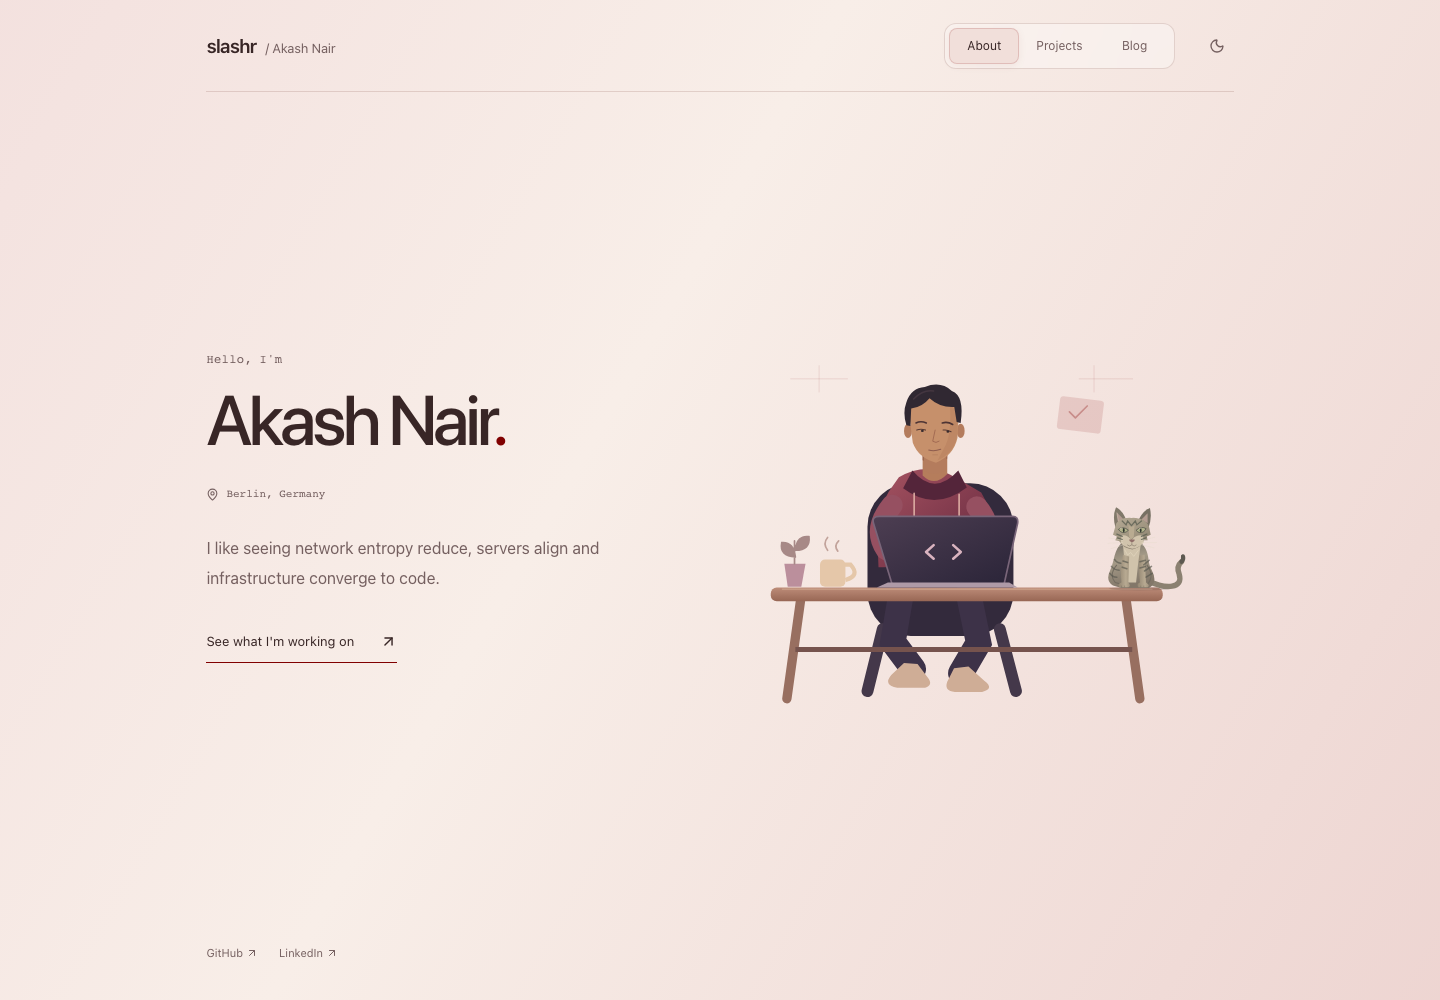
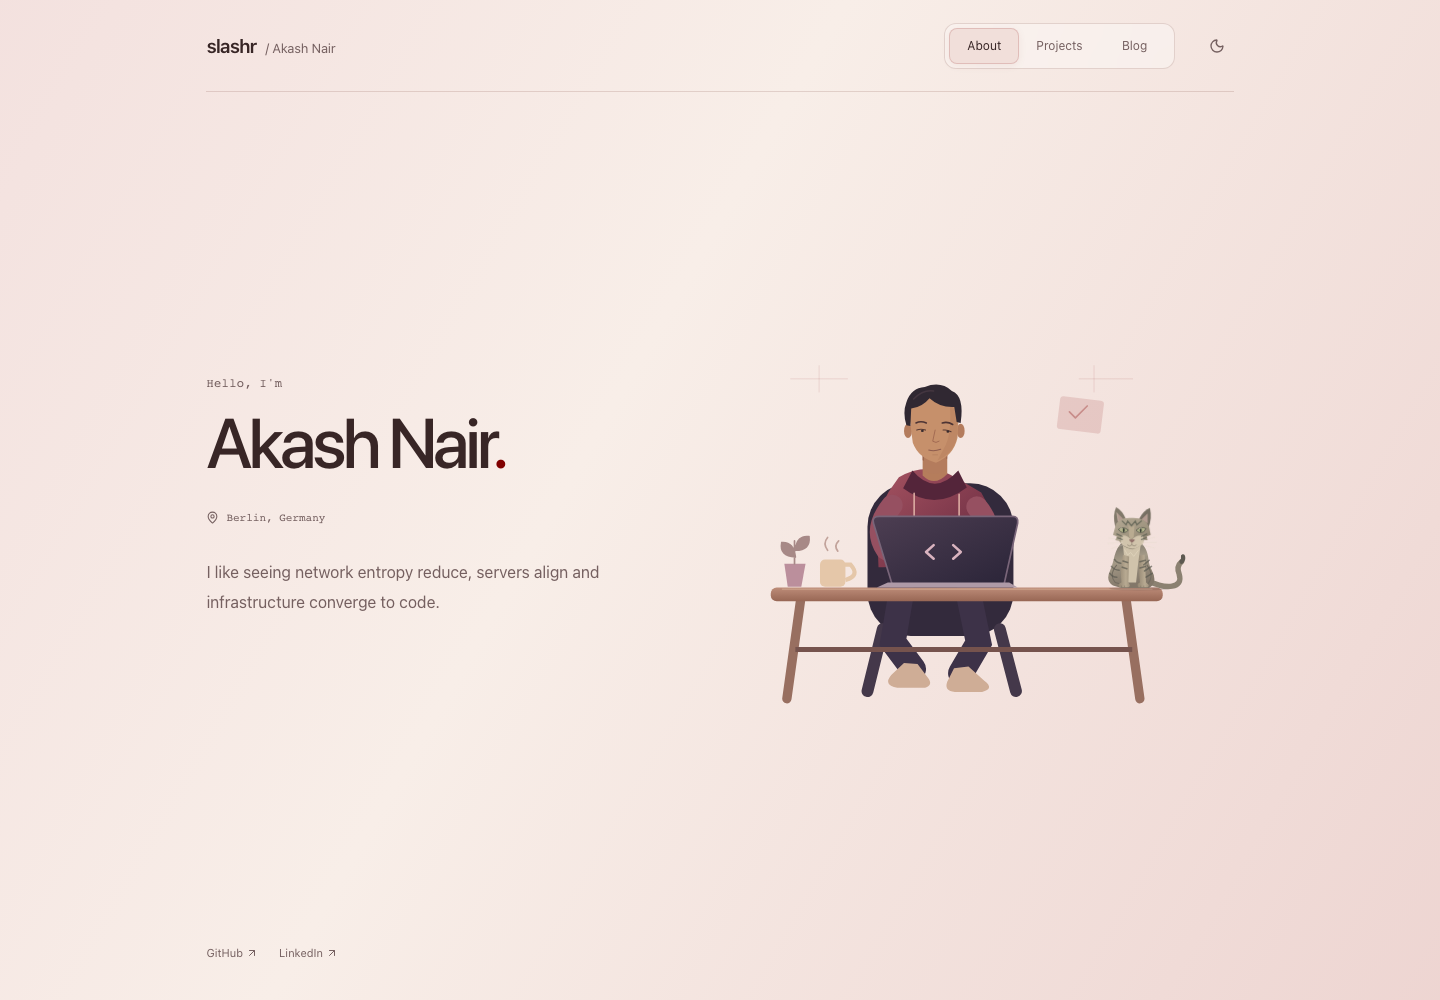
Remove the Projects link from the About page

Changed region(s): [[0.125, 0.372, 0.4062, 0.651]]

diff --git a/app/page.tsx b/app/page.tsx
@@ -1,5 +1,4 @@
-import Link from "next/link";
-import { ArrowUpRight, MapPin } from "lucide-react";
+import { MapPin } from "lucide-react";
 import { DeskCompanion } from "@/components/desk-companion";
 
 export default function Home() {
@@ -21,10 +20,6 @@ export default function Home() {
               infrastructure converge to code.
             </p>
           </div>
-          <Link className="about-project-link" href="/projects/">
-            See what I'm working on{" "}
-            <ArrowUpRight size={17} aria-hidden="true" />
-          </Link>
         </div>
         <DeskCompanion />
       </section>

diff --git a/e2e/portfolio.spec.ts b/e2e/portfolio.spec.ts
@@ -19,7 +19,7 @@ test("the homepage introduces Akash and the main tabs open their own pages", asy
   await expect(
     page.getByRole("tablist", { name: "Choose a project" }),
   ).toHaveCount(0);
-  await page.getByRole("link", { name: "See what I'm working on" }).click();
+  await navigation.getByRole("link", { name: "Projects", exact: true }).click();
   await expect(page).toHaveURL(/\/projects\/$/);
   await expect(
     navigation.getByRole("link", { name: "Projects", exact: true }),
